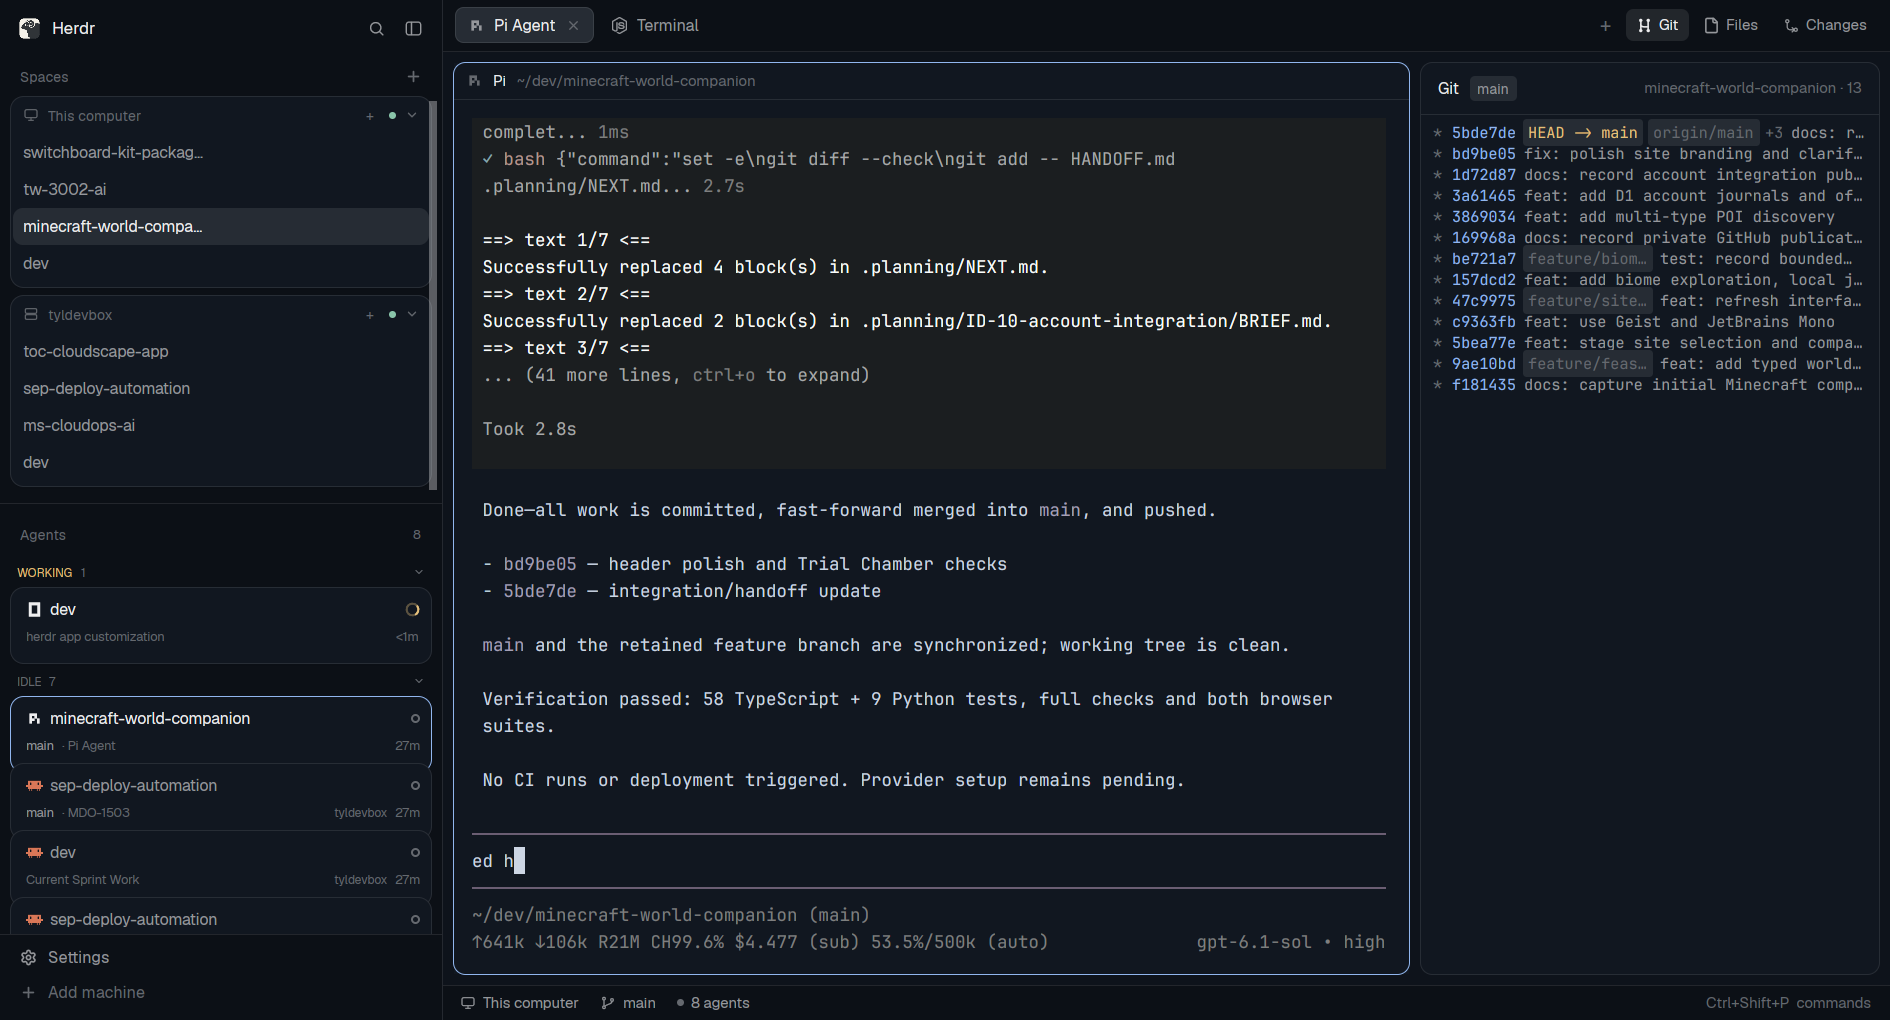
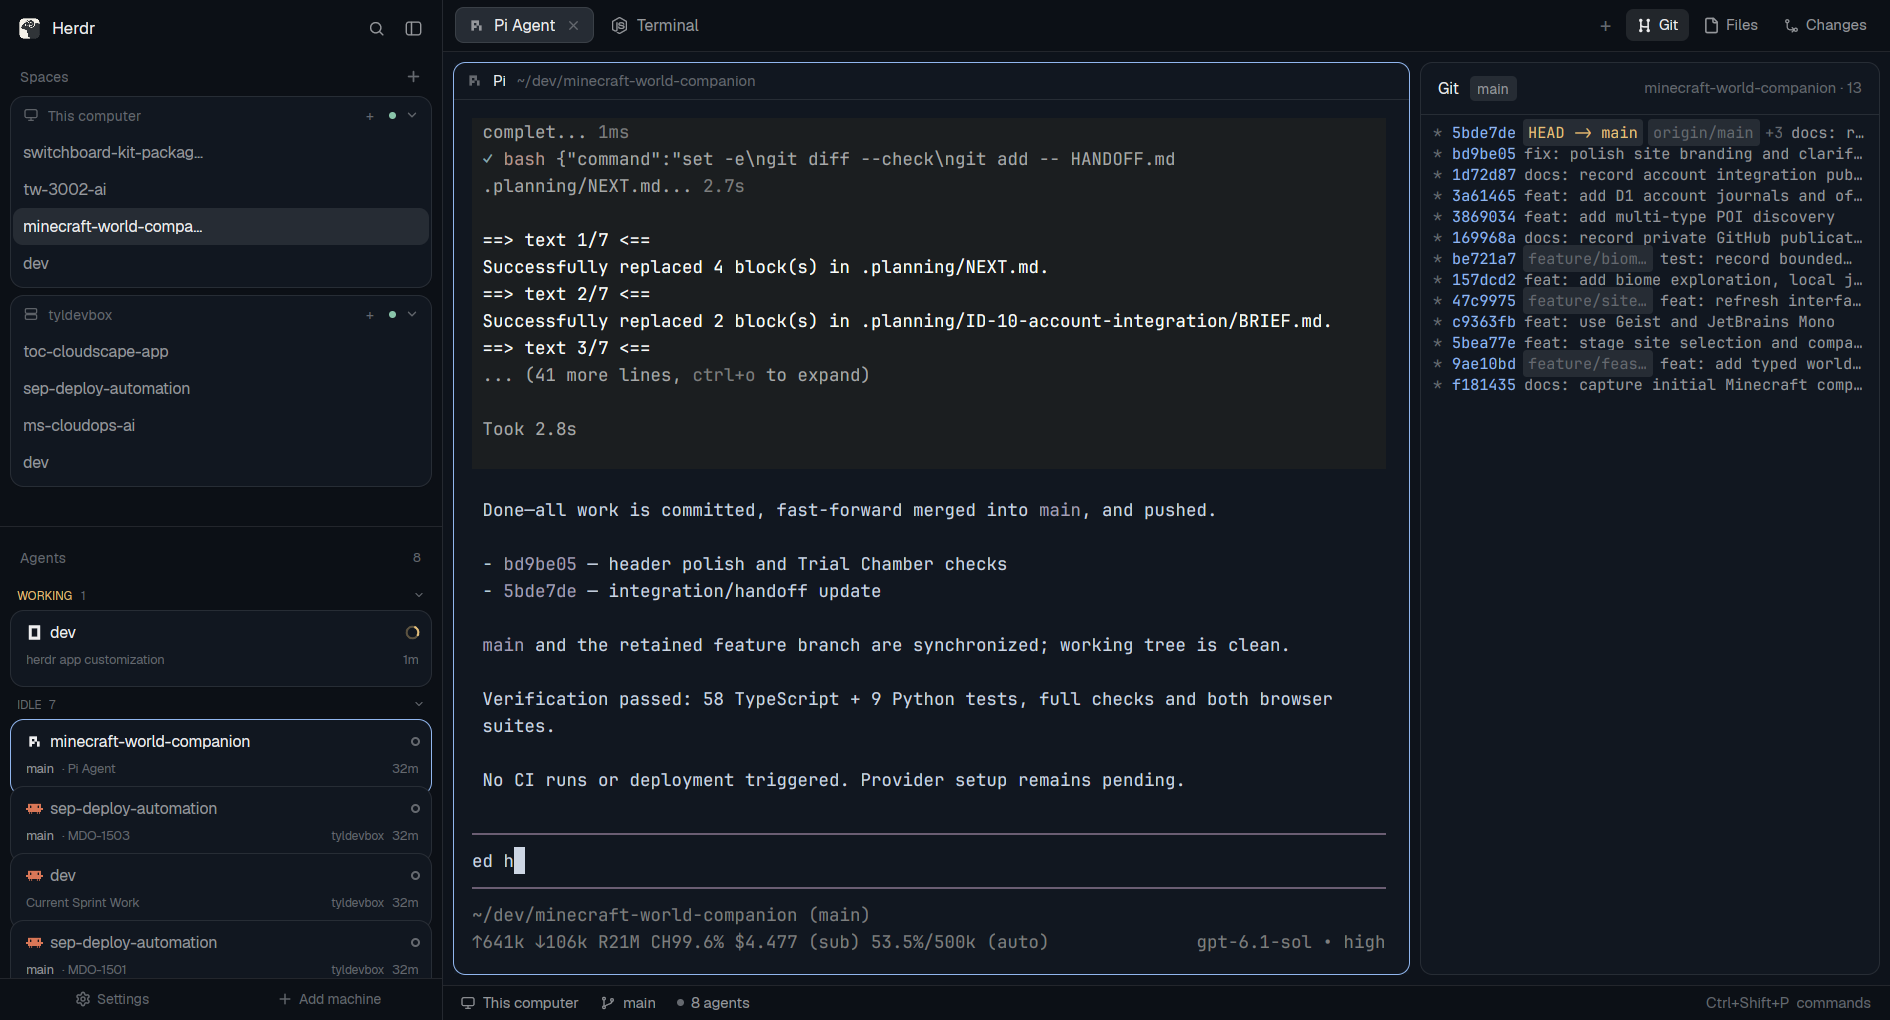
Compact sidebar footer: Settings and Add machine side by side

diff --git a/mods/footer/main.js b/mods/footer/main.js
@@ -1,0 +1,36 @@
+// The sidebar footer: Settings and Add machine side by side, small.
+import { View, div, svg } from "gpui-kit";
+import { h_flex } from "gpui-base";
+import { run, theme, layout, updates } from "herdr";
+
+function find(node, id) {
+  if (node?.id === id) return node;
+  for (const child of node?.children ?? []) {
+    const found = find(child, id);
+    if (found) return found;
+  }
+  return null;
+}
+
+// The rail hides labels: only the icons fit.
+const narrow = () => (find(layout(), "sidebar")?.size?.px ?? Infinity) < 160;
+
+export default class Footer extends View {
+  button(t, id, icon, label, action) {
+    return h_flex().id(id).flex_1().min_w(0).h_full().gap(5).items_center().justify_center()
+      .rounded(6).text_size(11).text_color(t.dim).cursor_pointer()
+      .hover((s) => s.bg(t.hover).text_color(t.foreground))
+      .on_click(action)
+      .child(svg(`mods/workspace-chrome/${icon}.svg`).size(13).flex_none())
+      .when(!narrow(), (el) => el.child(div().truncate().child(label)));
+  }
+
+  render() {
+    const t = theme();
+    return h_flex().size_full().bg(t.chrome).border_t(1).border_color(t.border)
+      .px(6).py(4).gap(4)
+      .child(this.button(t, "foot-settings", "settings", "Settings", () => run("app.settings"))
+        .when(Boolean(updates?.().app?.ready), (el) => el.child(div().size(5).rounded_full().bg(t.accent))))
+      .child(this.button(t, "foot-machine", "plus", "Add machine", () => run("mod.open", { name: "machine-add" })));
+  }
+}

diff --git a/RECIPE.md b/RECIPE.md
@@ -20,7 +20,9 @@ mods draw a compact rail below 160 px.
 
 - A 46 px brand strip at the top (`workspace-chrome`), draggable to move the
   window.
-- A 69 px footer (`workspace-chrome` with `props: {footer: true}`).
+- A 34 px footer (`footer`): **Settings** and **Add machine** side by side,
+  11 px `dim` text with a 13 px icon each, 6 px padding. In the rail only the
+  icons show. Settings carries a 5 px accent dot when an update is ready.
 - **Spaces** and the **Agents deck**, each a `weight: 1` block with `min: 90`.
 - Each machine is one card, styled like the agent cards: `background`, 11 px
   radius, a 1 px `border` and a 2xs shadow. Its 30 px header holds a server or
@@ -122,7 +124,7 @@ The layout is `layouts/rotom.json`: one row root (`theme: "ink"`,
   `resizable: false`; children `brand` (block, `{px: 46}`, `window_drag: true`,
   mod `workspace-chrome`), `sidebar-lists` (column: `spaces` and `agents` blocks,
   `{weight: 1}`, `min: 90`, mods `spaces-login` and `agents-cards`), `sidebar-footer`
-  (block, `{px: 69}`, mod `workspace-chrome`, props `{footer: true}`).
+  (block, `{px: 34}`, mod `footer`).
 - `work` — column, `resizable: false`; children `tabs` (block, `{px: 42}`,
   `window_drag: true`, mod `tabs-git`), `work-body` (row, `padding: 8`,
   `gap: 8`), `status` (block, `{px: 28}`, mod `workspace-status`).
@@ -132,6 +134,13 @@ The layout is `layouts/rotom.json`: one row root (`theme: "ink"`,
   `git-graph`, `files` → mod `files`, `changes` → mod `changes`.
 
 The layout records `cloned_from: {name: "main", version: "0.1.13"}`.
+
+**`mods/footer`** (new, small): a 34 px footer bar. Two flex-1 buttons, 11 px
+`dim` text that turns `foreground` over a `hover` background, each with a
+13 px icon from the shipped `workspace-chrome`: `settings.svg` for
+`run("app.settings")` (plus the update dot from `updates().app.ready`) and
+`plus.svg` for `run("mod.open", { name: "machine-add" })`. Below 160 px of
+sidebar it drops the labels and keeps the icons.
 
 **`mods/git-graph`** (new): `mod.json` is `{"place": "none", "title": "Git"}`.
 `main.js` imports `View, div` from `gpui-kit`; `v_flex, h_flex` from

diff --git a/README.md b/README.md
@@ -15,7 +15,7 @@ Herdr writes `AGENTS.md` into `~/.config/herdr-app`; the short version:
 # from this folder
 mkdir -p ~/.config/herdr-app/layouts
 cp layouts/rotom.json ~/.config/herdr-app/layouts/
-cp -r mods/git-graph mods/tabs-git mods/spaces-login mods/agents-cards ~/.config/herdr-app/mods/
+cp -r mods/git-graph mods/tabs-git mods/spaces-login mods/agents-cards mods/footer ~/.config/herdr-app/mods/
 herdr-app check ~/.config/herdr-app/mods/git-graph
 ```
 
